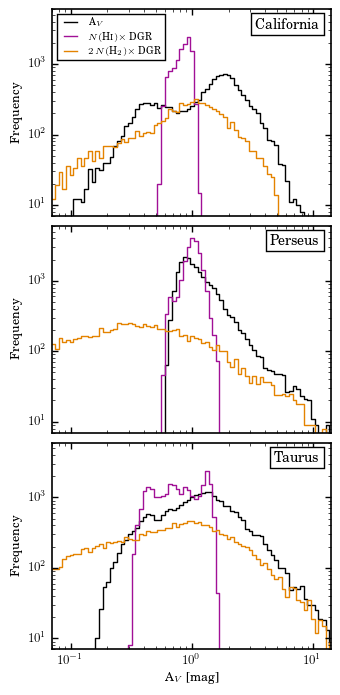
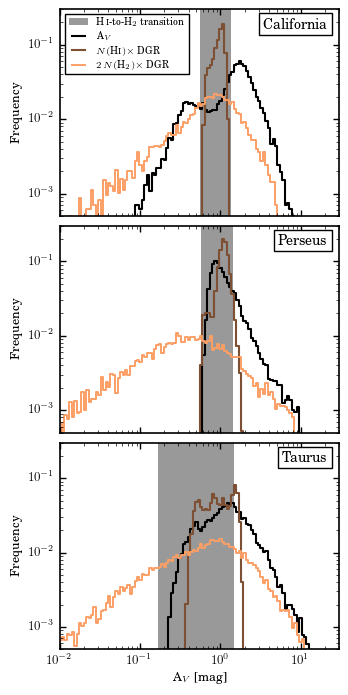
updated PDF discussion with latest results

diff --git a/_posts/research/2015-09-11-model-analysis-and-pdfs.md b/_posts/research/2015-09-11-model-analysis-and-pdfs.md
@@ -17,7 +17,7 @@ use_math: true
 
 <hr style="height:2px; background-color:#b6b6b6"/>
 
-## **Probability Density Functions**
+# **Probability Density Functions**
 
 [Burkhart et al. (2015)](http://adsabs.harvard.edu/abs/2015arXiv150902889B) just
 published a paper using the Lee et al. (2015) optical-depth-corrected HI and H2
@@ -29,14 +29,16 @@ We show a similar plot to their Figure 2 below.
 
 <img src="/images/2015-09-11/multicloud_pdfs.png" style="width: 60%"/>
 
-##### **Figure 1** #####
+##### **Figure 1**
 
-PDFs of N(HI), N(H$_2$) and $A_V$ for each cloud. The HI-to-H$_2$ transition is
-more easily identified in Perseus than in Taurus and California. PDFs for $A_V
-< 1$ mag are likely very uncertain due to background subtraction and region
-selection.
+PDFs of N(HI), N(H$_2$) and $A_V$ for each cloud. The gray shaded range
+corresponds to the range of $A_V$ at the HI-to-H2 transition from 10 core
+regions in each molecular core. PDFs for $A_V < 1$ mag are likely very uncertain
+due to background subtraction and region selection.
 
 ***
+
+## PDF Precision
 
 [Lombardi et al.  (2015)](http://www.aanda.org/10.1051/0004-6361/201525650)
 compared several molecular cloud PDFs using Planck/Herschel data. In Figures 1
@@ -44,28 +46,31 @@ and 2 two they show that the PDF of Orion varies largely for $A_K < 0.2$ mag,
 about $A_V = 1.8$ mag, given different boundaries and background subtractions.
 To be safe, we compare these PDFs for $A_V > 1$ mag. 
 
+## Cloud PDF Discussion
+
 ### California
 
 The peak of California's PDF is about $A_V = 2$ mag. Lombardi et al. (2015)
 shows a peak of around $A_K = 0.2$ mag. This is about 1.8 mag. This difference
-is within the error in the intercept derived between Planck and 2MASS $A_V$.
+is within the error in the background for California derived from Planck and
+2MASS $A_V$.
 
 ### Perseus
 
 The PDF of Perseus seems to show similarity to that of Burkhart et al. (2015)
-(B+15). Our PDF peak is slightly shifted to $A_V$ of 1 mag, compared to the
-$A_V$ peak of 0.8 mag in B+15. This is expected because of the positive offset
-we calculated for Perseus $A_V$. The HI peak is slightly higher than in B+15 by
-about 0.1 mag. This could be due to our higher DGR, different region selection,
-and slightly different HI range.
+(B+15). Our $A_V$ PDF peak is slightly shifted to $A_V$ of 1 mag, compared to
+the $A_V$ peak of 0.8 mag in B+15. This can be explained by the positive offset
+(background) we calculated for Perseus $A_V$. The HI peak is slightly higher
+than in B+15 by about 0.1 mag. This could be due to our higher DGR, different
+region selection, and slightly different HI range.
 
 A better comparison with B+15 would be to measure the widths of Gaussians
-fitted to the rising side of the HI and $A_V$ PDFs. Look in 09/15 post for
-these results.
+fitted to the rising side of the HI and $A_V$ PDFs.
 
 ### Taurus
 
 The dust and HI in Taurus is less centrally concentrated than in Perseus and
-California. Lombardi et al. (2015) shows a peak of about $A_V$ = 1 mag, similar
-to what we have found.
+California. This wider distribution in HI is due to the gradient in N(HI) seen
+from the East to West in Taurus. Lombardi et al. (2015) shows a peak of about
+$A_V$ = 1 mag, similar to what we have found.
 
